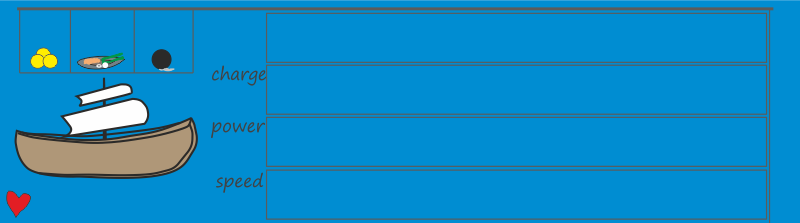
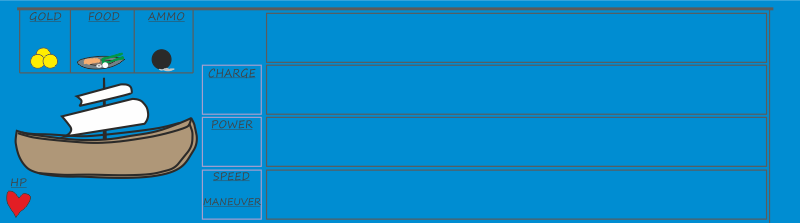
@add maneuver to ship templates @add maneuver display @add maneuver update methods

diff --git a/src/main/java/pl/mareksowa/controllers/DockyardController.java b/src/main/java/pl/mareksowa/controllers/DockyardController.java
@@ -39,9 +39,17 @@ public class DockyardController extends PlayerShipController implements Initiali
     @FXML private Button btnAddCannonSpace;
 
     @FXML private Button btnAddSail1;
+    @FXML private Label lblUpgradeSail1Speed;
+    @FXML private Label lblUpgradeSail1Manu;
     @FXML private Button btnAddSail2;
+    @FXML private Label lblUpgradeSail2Speed;
+    @FXML private Label lblUpgradeSail2Manu;
     @FXML private Button btnAddSail3;
+    @FXML private Label lblUpgradeSail3Speed;
+    @FXML private Label lblUpgradeSail3Manu;
     @FXML private Button btnAddSail4;
+    @FXML private Label lblUpgradeSail4Speed;
+    @FXML private Label lblUpgradeSail4Manu;
 
     @FXML private Button btnRepair1;
     @FXML private Button btnRepair2;
@@ -83,9 +91,17 @@ public class DockyardController extends PlayerShipController implements Initiali
         btnAddSailSpace.setVisible(false);
         btnAddCannonSpace.setVisible(false);
         btnAddSail1.setVisible(false);
+        lblUpgradeSail1Speed.setText("");
+        lblUpgradeSail1Manu.setText("");
         btnAddSail2.setVisible(false);
+        lblUpgradeSail2Speed.setText("");
+        lblUpgradeSail2Manu.setText("");
         btnAddSail3.setVisible(false);
+        lblUpgradeSail3Speed.setText("");
+        lblUpgradeSail3Manu.setText("");
         btnAddSail4.setVisible(false);
+        lblUpgradeSail4Speed.setText("");
+        lblUpgradeSail4Manu.setText("");
         btnRepair1.setVisible(false);
         btnRepair2.setVisible(false);
         btnRepair3.setVisible(false);
@@ -134,14 +150,24 @@ public class DockyardController extends PlayerShipController implements Initiali
 
         btnAddSail1.setVisible(true);
         btnAddSail1.setText("$" + new SailSmall().getPrice());
-        btnAddSail1.setGraphic(new ImageView(new Image("img/SailNormal.png")));
+        btnAddSail1.setGraphic(new ImageView(new Image("img/SailSmall.png")));
+        lblUpgradeSail1Speed.setText("speed: " + new SailSmall().getSpeed());
+        lblUpgradeSail1Manu.setText("maneuver: " + new SailSmall().getManeuver());
         btnAddSail2.setVisible(true);
         btnAddSail2.setText("$" + new SailPirate().getPrice());
         btnAddSail2.setGraphic(new ImageView(new Image("img/SailPirate.png")));
+        lblUpgradeSail2Speed.setText("speed: " + new SailSmall().getSpeed());
+        lblUpgradeSail2Manu.setText("maneuver: " + new SailSmall().getManeuver());
         btnAddSail3.setVisible(true);
         btnAddSail3.setText("$" + new SailBig().getPrice());
+        btnAddSail3.setGraphic(new ImageView(new Image("img/SailSharp.png")));
+        lblUpgradeSail3Speed.setText("speed: " + new SailSmall().getSpeed());
+        lblUpgradeSail3Manu.setText("maneuver: " + new SailSmall().getManeuver());
         btnAddSail4.setVisible(true);
         btnAddSail4.setText("$" + new SailSharp().getPrice());
+        btnAddSail4.setGraphic(new ImageView(new Image("img/SailBig.png")));
+        lblUpgradeSail4Speed.setText("speed: " + new SailSmall().getSpeed());
+        lblUpgradeSail4Manu.setText("maneuver: " + new SailSmall().getManeuver());
 
         btnRepair1.setVisible(true);
         btnRepair1.setGraphic(new ImageView(new Image("img/Anvil.png")));
@@ -172,6 +198,8 @@ public class DockyardController extends PlayerShipController implements Initiali
         btnRegBack();
         btnRegAddSailSmall();
         btnRegAddSailPirate();
+        btnRegAddSailSharp();
+        btnRegAddSailBig();
     }
 
     /**
@@ -191,7 +219,7 @@ public class DockyardController extends PlayerShipController implements Initiali
         btnAddStorageSpace.setOnMouseClicked(e->{
             int storagePrice = getPLAYER_SHIP().getStorageCapacity() * getPLAYER_SHIP().getStorageCapacity()
                     + getPLAYER_SHIP().getStorageCapacity();
-            if (getPLAYER_SHIP().getGold()> storagePrice){
+            if (getPLAYER_SHIP().getGold()>= storagePrice){
                 getPLAYER_SHIP().setGold(getPLAYER_SHIP().getGold()- storagePrice);
                 getPLAYER_SHIP().setStorageCapacity(getPLAYER_SHIP().getStorageCapacity()+1);
                 updateScene();
@@ -209,7 +237,7 @@ public class DockyardController extends PlayerShipController implements Initiali
         btnAddCabin.setOnMouseClicked(e->{
             int cabinPrice = getPLAYER_SHIP().getCabinCapacity() * getPLAYER_SHIP().getCabinCapacity()
                     + getPLAYER_SHIP().getCabinCapacity()+1;
-            if (getPLAYER_SHIP().getGold()> cabinPrice){
+            if (getPLAYER_SHIP().getGold()>= cabinPrice){
                 getPLAYER_SHIP().setGold(getPLAYER_SHIP().getGold()- cabinPrice);
                 getPLAYER_SHIP().setCabinCapacity(getPLAYER_SHIP().getCabinCapacity()+1);
                 updateScene();
@@ -227,7 +255,7 @@ public class DockyardController extends PlayerShipController implements Initiali
             int sailPrice = getPLAYER_SHIP().getSailCapacity()
                     * getPLAYER_SHIP().getSailCapacity() + getPLAYER_SHIP().getSailCapacity()+10;
 
-            if (getPLAYER_SHIP().getGold()> sailPrice){
+            if (getPLAYER_SHIP().getGold()>= sailPrice){
                 getPLAYER_SHIP().setGold(getPLAYER_SHIP().getGold()- sailPrice);
                 getPLAYER_SHIP().setSailCapacity(getPLAYER_SHIP().getSailCapacity() + 1);
                 updateScene();
@@ -245,7 +273,7 @@ public class DockyardController extends PlayerShipController implements Initiali
             int cannonPrice = getPLAYER_SHIP().getCannonCapacity() * getPLAYER_SHIP().getCannonCapacity()
                     + getPLAYER_SHIP().getCannonCapacity()+5;
 
-            if (getPLAYER_SHIP().getGold()> cannonPrice){
+            if (getPLAYER_SHIP().getGold()>= cannonPrice){
                 getPLAYER_SHIP().setGold(getPLAYER_SHIP().getGold()- cannonPrice);
                 getPLAYER_SHIP().setCannonCapacity(getPLAYER_SHIP().getCannonCapacity() + 1);
                 updateScene();
@@ -261,7 +289,7 @@ public class DockyardController extends PlayerShipController implements Initiali
     private void btnRegRepair1(){
         btnRepair1.setOnMouseClicked(e->{
             if (getPLAYER_SHIP().getCurrentEndurance() < getPLAYER_SHIP().getEndurance()){
-                if (getPLAYER_SHIP().getGold() > 1){
+                if (getPLAYER_SHIP().getGold() >= 1){
                     getPLAYER_SHIP().setGold(getPLAYER_SHIP().getGold()-1);
                     getPLAYER_SHIP().setCurrentEndurance(getPLAYER_SHIP().getCurrentEndurance() + 1);
                     updatePlayerShip(getPLAYER_SHIP());
@@ -282,7 +310,7 @@ public class DockyardController extends PlayerShipController implements Initiali
     private void btnRegRepair2(){
         btnRepair2.setOnMouseClicked(e->{
             if (getPLAYER_SHIP().getCurrentEndurance() < getPLAYER_SHIP().getEndurance() - 5){
-                if (getPLAYER_SHIP().getGold() > 5){
+                if (getPLAYER_SHIP().getGold() >= 5){
                     getPLAYER_SHIP().setGold(getPLAYER_SHIP().getGold()-5);
                     getPLAYER_SHIP().setCurrentEndurance(getPLAYER_SHIP().getCurrentEndurance() + 5);
                     updatePlayerShip(getPLAYER_SHIP());
@@ -303,7 +331,7 @@ public class DockyardController extends PlayerShipController implements Initiali
         btnRepair3.setOnMouseClicked(e->{
             int toRepair = getPLAYER_SHIP().getEndurance() - getPLAYER_SHIP().getCurrentEndurance();
             if (getPLAYER_SHIP().getCurrentEndurance() < getPLAYER_SHIP().getEndurance()){
-                if (getPLAYER_SHIP().getGold() > toRepair){
+                if (getPLAYER_SHIP().getGold() >= toRepair){
                     getPLAYER_SHIP().setGold(getPLAYER_SHIP().getGold()-toRepair);
                     getPLAYER_SHIP().setCurrentEndurance(getPLAYER_SHIP().getCurrentEndurance() + toRepair);
                     updatePlayerShip(getPLAYER_SHIP());
@@ -320,7 +348,7 @@ public class DockyardController extends PlayerShipController implements Initiali
     private void addNewSail(Sail sailToAdd){
         int sailPrice = sailToAdd.getPrice();
 
-        if (getPLAYER_SHIP().getGold()> sailPrice){
+        if (getPLAYER_SHIP().getGold()>= sailPrice){
             if (getPLAYER_SHIP().getSailCapacity() > getPLAYER_SHIP().getSailList().size()){
                 getPLAYER_SHIP().setGold(getPLAYER_SHIP().getGold()- sailPrice);
                 getShipFun().addSail(getPLAYER_SHIP(), sailToAdd);
@@ -334,10 +362,19 @@ public class DockyardController extends PlayerShipController implements Initiali
     }
 
     private void btnRegAddSailSmall(){
-        btnAddSail1.setOnMouseClicked(e-> addNewSail(new SailSmall()));
+        btnAddSail1.setOnMouseClicked(click-> addNewSail(new SailSmall()));
     }
 
     private void btnRegAddSailPirate(){
-        btnAddSail2.setOnMouseClicked(e-> addNewSail(new SailPirate()));
+        btnAddSail2.setOnMouseClicked(click-> addNewSail(new SailPirate()));
     }
+
+    private void btnRegAddSailSharp(){
+        btnAddSail3.setOnMouseClicked(click-> addNewSail(new SailSharp()));
+    }
+
+    private void btnRegAddSailBig(){
+        btnAddSail4.setOnMouseClicked(click-> addNewSail(new SailBig()));
+    }
+
 }

diff --git a/src/main/java/pl/mareksowa/models/functionalities/services/ShipManager.java b/src/main/java/pl/mareksowa/models/functionalities/services/ShipManager.java
@@ -127,6 +127,18 @@ public class ShipManager implements ShipFunctionality {
                         sails[i-1].setImage(new Image("img/SailSmall.png"));
                         break;
                     }
+                    case "SailPirate":{
+                        sails[i-1].setImage(new Image("img/SailPirate.png"));
+                        break;
+                    }
+                    case "SailSharp":{
+                        sails[i-1].setImage(new Image("img/SailSharp.png"));
+                        break;
+                    }
+                    case "SailBig":{
+                        sails[i-1].setImage(new Image("img/SailBig.png"));
+                        break;
+                    }
                 }
 
             } else {
@@ -172,6 +184,11 @@ public class ShipManager implements ShipFunctionality {
     }
 
     @Override
+    public void updateManeuver(Ship PLAYER0SHIP, Label lblPLayerManeuver) {
+        lblPLayerManeuver.setText(String.valueOf(calcShipManeuver(PLAYER0SHIP)));
+    }
+
+    @Override
     public void updateHp(Ship PLAYER0SHIP, Label lblPlayerHp, ProgressBar pbShipHp) {
         int maxHp = PLAYER0SHIP.getEndurance();
         int curHp = PLAYER0SHIP.getCurrentEndurance();
@@ -205,6 +222,17 @@ public class ShipManager implements ShipFunctionality {
             speed+=sail.getSpeed();
         }
         return speed > 0 ? speed : 1;
+    }
+
+    private int calcShipManeuver(Ship PLAYER0SHIP) throws IllegalArgumentException {
+        if (PLAYER0SHIP.getSailList()==null){
+            throw new IllegalArgumentException("Sails are null");
+        }
+        int manu = 0;
+        for (Sail sail : PLAYER0SHIP.getSailList()) {
+            manu+=sail.getManeuver();
+        }
+        return manu;
     }
 
     private int calcShipPower(Ship PLAYER0SHIP) throws IllegalArgumentException{

diff --git a/src/main/java/pl/mareksowa/controllers/PlayerShipController.java b/src/main/java/pl/mareksowa/controllers/PlayerShipController.java
@@ -34,6 +34,7 @@ public abstract class PlayerShipController {
     @FXML private Label lblPlayerAmmo;
     @FXML private Label lblPlayerHp;
     @FXML private Label lblPlayerSpeed;
+    @FXML private Label lblPlayerManeuver;
     @FXML private Label lblPlayerPower;
     @FXML private Label lblPlayerCharge;
 
@@ -103,6 +104,7 @@ public abstract class PlayerShipController {
         updateCharge(PLAYER_SHIP);
         updatePower(PLAYER_SHIP);
         updateSpeed(PLAYER_SHIP);
+        updateManeuver(PLAYER_SHIP);
         updateStorage(PLAYER_SHIP);
         updateCrew(PLAYER_SHIP);
         updateSail(PLAYER_SHIP);
@@ -166,6 +168,14 @@ public abstract class PlayerShipController {
     }
 
     /**
+     * Method will update ship speed displayed to user.
+     * @param PLAYER_SHIP indicate which player will be updating. *for later possibility of multiplayer.
+     */
+    private void updateManeuver(Ship PLAYER_SHIP) {
+        shipFun.updateManeuver(PLAYER_SHIP, lblPlayerManeuver);
+    }
+
+    /**
      * Method will update storage of ship displayed to user.
      * @param PLAYER_SHIP indicate which player will be updating. *for later possibility of multiplayer.
      */
@@ -222,6 +232,10 @@ public abstract class PlayerShipController {
 
     public Label getLblPlayerCharge() {
         return lblPlayerCharge;
+    }
+
+    public Label getLblPlayerManeuver() {
+        return lblPlayerManeuver;
     }
 
     public Image getBgShipImage() {

diff --git a/src/main/java/pl/mareksowa/models/functionalities/ShipFunctionality.java b/src/main/java/pl/mareksowa/models/functionalities/ShipFunctionality.java
@@ -30,6 +30,7 @@ public interface ShipFunctionality {
     void updateCharge(Ship PLAYER0SHIP, Label lblPlayerCharge);
     void updatePower(Ship PLAYER0SHIP, Label lblPlayerPower);
     void updateSpeed(Ship PLAYER0SHIP, Label lblPlayerSpeed);
+    void updateManeuver(Ship PLYER0SHIP, Label lblPLayerManeuver);
     void updateHp(Ship PLAYER0SHIP, Label lblPlayerHp, ProgressBar pbShipHp);
     void takeDmg(Ship PLAYER0SHIP, int dmgTaken);
 
